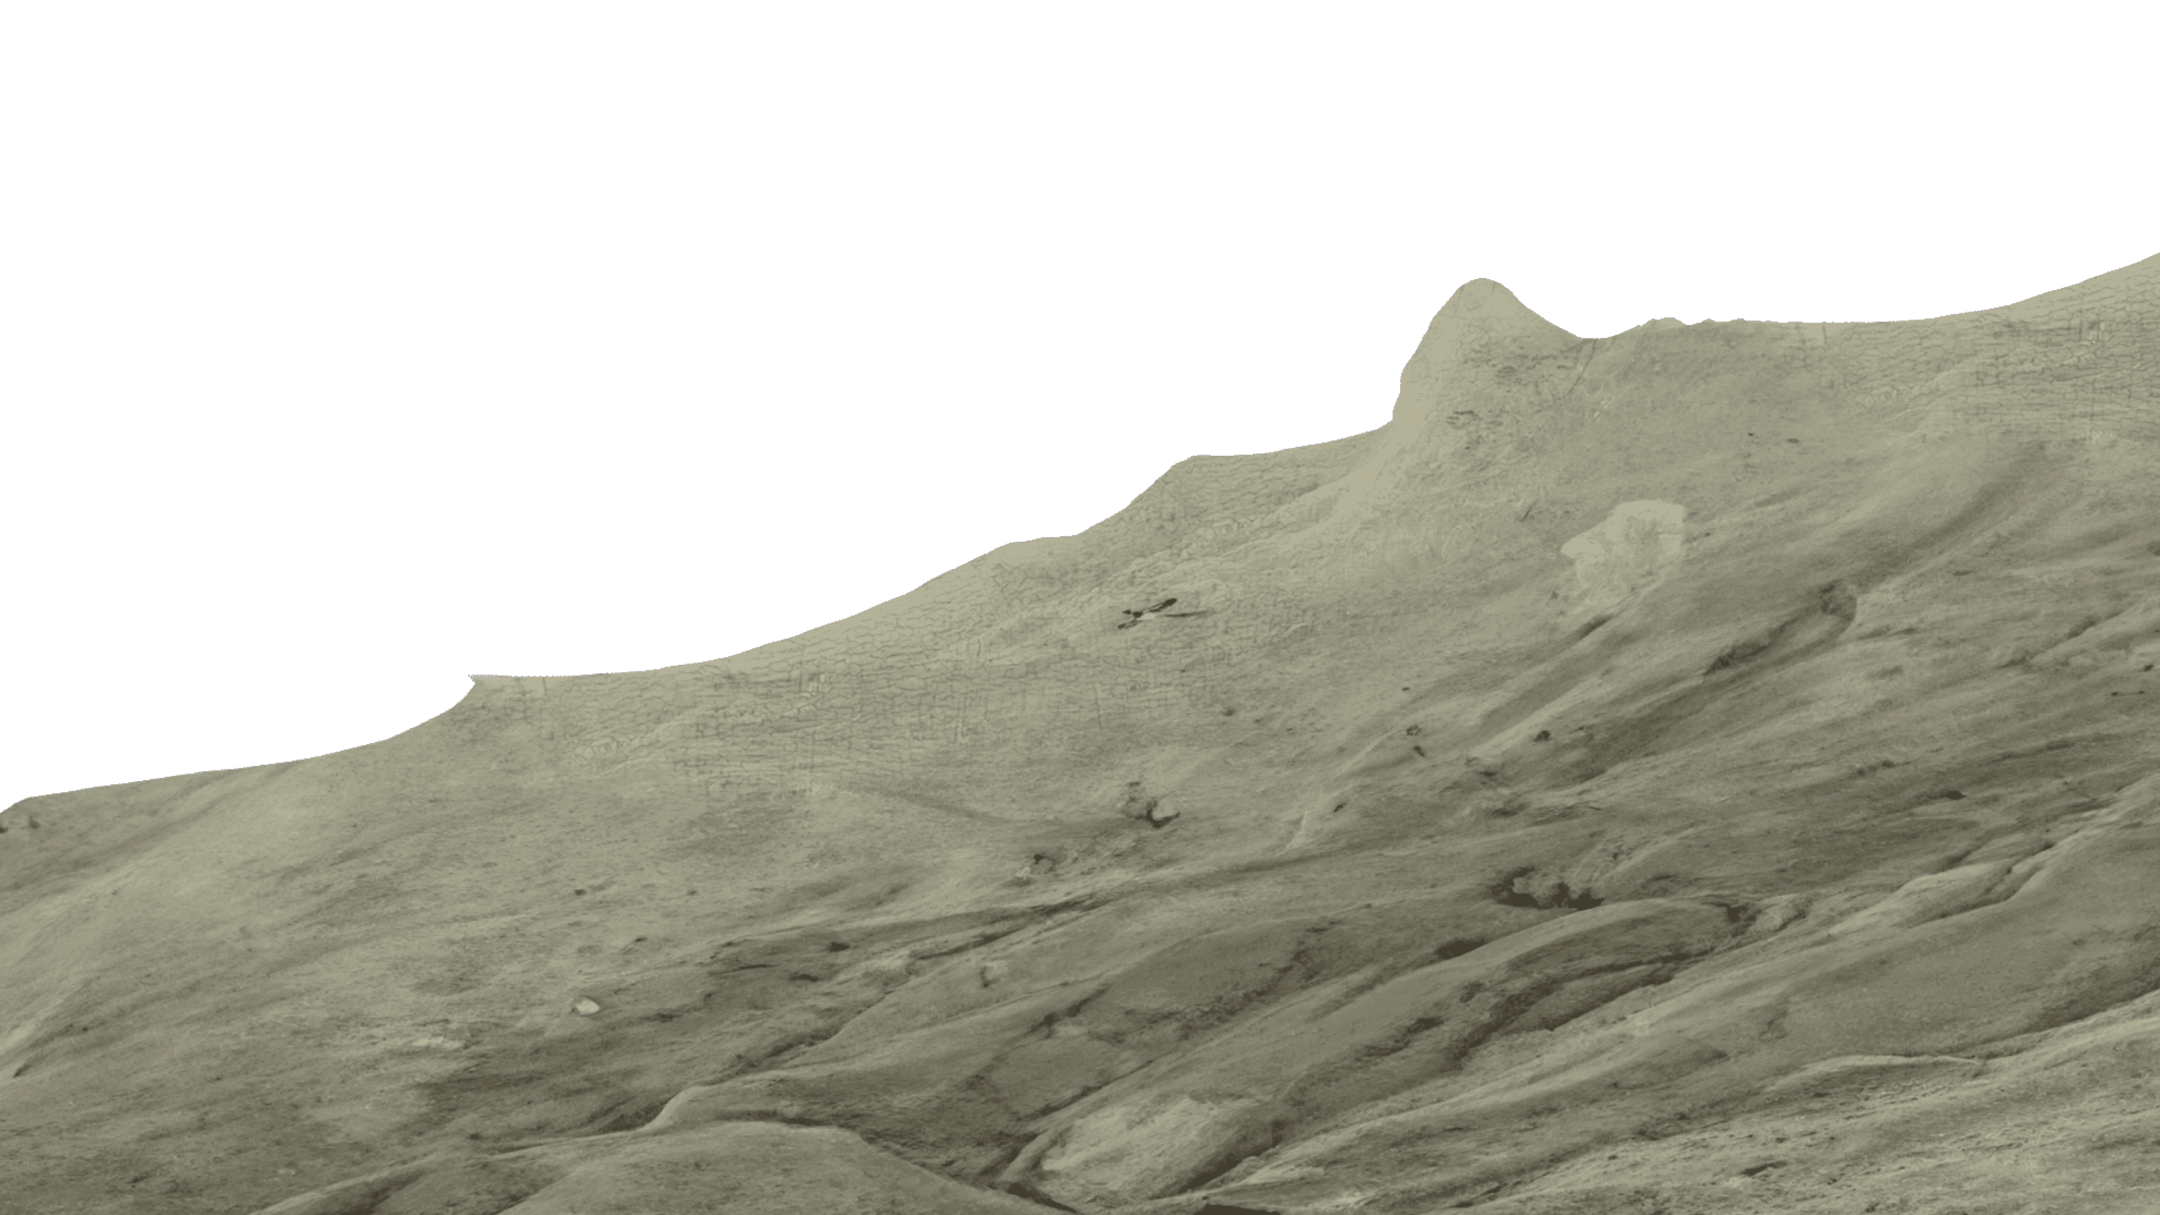
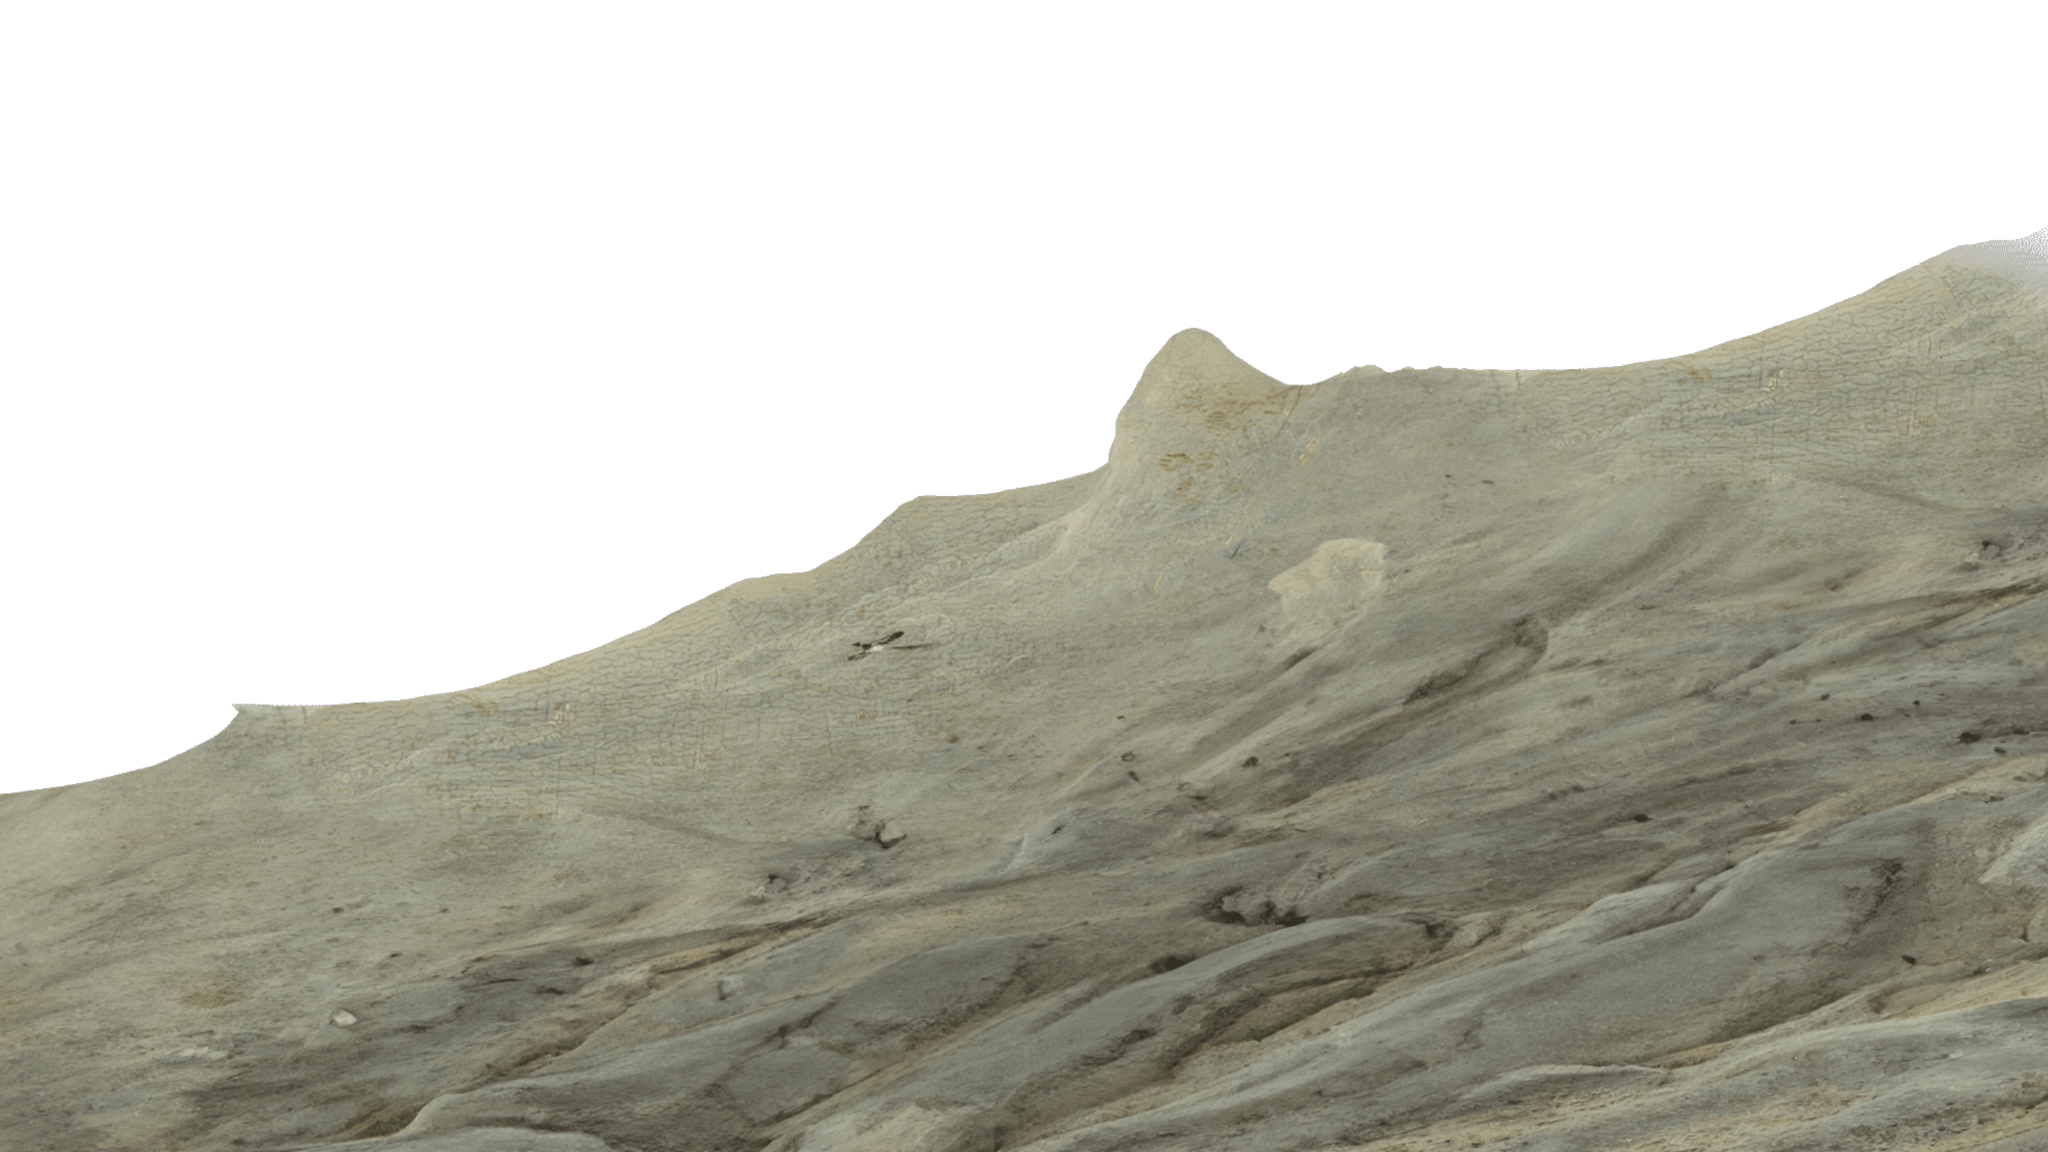
responsive fixes

diff --git a/index.html b/index.html
@@ -10,16 +10,17 @@
     <script src="https://cdnjs.cloudflare.com/ajax/libs/gsap/3.12.5/ScrollTrigger.min.js" integrity="sha512-onMTRKJBKz8M1TnqqDuGBlowlH0ohFzMXYRNebz+yOcc5TQr/zAKsthzhuv0hiyUKEiQEQXEynnXCvNTOk50dg==" crossorigin="anonymous" referrerpolicy="no-referrer"></script>
     <script src="https://cdn.tailwindcss.com"></script>
     <!-- <script src="https://cdn.jsdelivr.net/npm/simple-parallax-js@5.5.1/dist/simpleParallax.min.js"></script> -->
+    <script src="https://unpkg.com/lenis@1.1.2/dist/lenis.min.js"></script> 
 
   </head>
   <body>
 
     <section class="fc1 h-screen w-screen overflow-hidden relative flex items-center justify-center" id="scene1" >
-      <img id="img1" class="h-full w-full object-cover" src="assets/scene1_1.png" alt="" >
+      <img id="img1" class="h-full w-full object-cover" src="asset/scene1_1.png" alt="" >
       
-      <img id="img2" class="w-[110vw]  h-full object-cover scene1" src="assets/scene1_2.png" alt="" >
+      <img id="img2" class="w-[110vw]  h-full object-cover scene1" src="asset/scene1_2.png" alt="" >
       <div id="paper" class="text1 paper w-full text-6xl text-center font-bold overflow-hidden flex gap-10">
-        <img class="absolute" src="assets/paper.png" alt="">
+        <img class="absolute" src="asset/paper.png" alt="">
         <div class="flex-col justify-start items-center  inline-flex absolute -mt-30">
           <div class="text-center text-black text-3xl font-bold font-['Jura'] uppercase leading-10">MEN AND WOMEN WANTED</div>
           <div class="w-96 text-center text-black text-lg font-bold font-['Jura'] leading-relaxed">for hazardous journey, bitter cold, long months of complete darkness, constant danger, safe return doubtful, honor and <br/>recognition in case of success.</div>
@@ -34,18 +35,20 @@
        
           
       </div>
-      <img id="img3" class="w-[110vw]  h-full object-cover scene1" src="assets/scene1_3.png" alt=""  >
+      <img id="img3" class="w-[110vw]  h-full object-cover scene1" src="asset/scene1_3.png" alt=""  >
+
       
-      <img id="img4" class="w-[110vw]  h-full object-cover scene1" src="assets/scene1_4.png" alt="" >
+      <img id="img4" class="w-[110vw]  h-full object-cover scene1" src="asset/scene1_4.png" alt="" >
+      
+      <img id="img5" class="w-[110vw]  h-full object-cover scene1" src="asset/scene1_5.png" alt=""  >
       <div id="text1" class="text1 w-full text-7xl text-center font-bold overflow-hidden flex gap-20 mt-20 uppercase">
         <div class="overflow-hidden">You Already Have<br/>
         What it Takes.</div>
       </div>
-      <img id="img5" class="w-[110vw]  h-full object-cover scene1" src="assets/scene1_5.png" alt=""  >
       
-      <img id="img6" class="w-[110vw]  h-full object-cover scene1" src="assets/scene1_6.png" alt="" >
+      <img id="img6" class="w-[110vw]  h-full object-cover scene1" src="asset/scene1_6.png" alt="" >
       
-      <img id="img7" class="w-[110vw]  h-full object-cover scene1" src="assets/scene1_7.png" alt="" >
+      <img id="img7" class="w-[110vw]  h-full object-cover scene1" src="asset/scene1_7.png" alt="" >
       <div id="text2" class="text1 w-full text-6xl text-center font-bold overflow-hidden flex item-start gap-20 pt-40">
         <div class="overflow-hidden text-xl uppercase tracking-[20px] font-semibold">
           FullCircle

diff --git a/script.js b/script.js
@@ -15,6 +15,21 @@ function showInput(){
 // gsap
 gsap.registerPlugin(ScrollTrigger);
 
+
+const lenis = new Lenis()
+
+lenis.on('scroll', (e) => {
+  console.log(e)
+})
+
+lenis.on('scroll', ScrollTrigger.update)
+
+gsap.ticker.add((time)=>{
+  lenis.raf(time * 1000)
+})
+
+gsap.ticker.lagSmoothing(0)
+
 let tl = gsap.timeline({
   scrollTrigger: {
     trigger: "section",
@@ -122,69 +137,69 @@ tl.to("#img7", {
 //   webkitFilter: "blur(10px)",
   //   opacity: 0,
   ease: "sine.inOut",
-  duration: 1
+  duration: 3
 }).to("#text2", {
   scale: 3,
 //   webkitFilter: "blur(10px)",
   //   opacity: 0,
   ease: "sine.inOut",
-  duration: 2
+  duration: 4
 },0)
 .to("#text1", {
   scale: 3,
   // webkitFilter: "blur(10px)",
   // opacity: 0,
-  marginTop: "80%",
+  marginTop: "70%",
   ease: "sine.inOut",
-  duration: 8
+  duration: 10
 },0)
 .to("#img6", {
   scale: 3,
 //   webkitFilter: "blur(10px)",
 //   opacity: 0,
   ease: "sine.inOut",
-  duration: 3
+  duration: 5
 },0)
 .to("#img5", {
     scale: 3,
     // webkitFilter: "blur(10px)",
     // opacity: 0,
     ease: "sine.inOut",
-    duration: 8
+    duration: 10
   },0)
   .to("#img4", {
     scale: 3,
     // webkitFilter: "blur(10px)",
     // opacity: 0,
     ease: "sine.inOut",
-    duration: 12
+    duration: 14
   },0)
   .to("#img3", {
-    scale: 3,
+    scale: 2,
     marginTop: "20%",
     // webkitFilter: "blur(10px)",
     // opacity: 0,
     ease: "sine.inOut",
-    duration: 16
+    duration: 18
   },0)
   .to("#img2", {
-    scale: 3,
+    scale: 1.8,
     // webkitFilter: "blur(10px)",
     // opacity: 0,
     ease: "sine.inOut",
-    duration: 20
+    duration: 22
   },0)
   .to("#img1", {
-    scale: 2,
+    scale: 1.5,
     ease: "sine.inOut",
-    duration: 25
+    duration: 32
   },0)
   .from("#paper", {
     top:"150%",
     scale: "0.2",
     // zIndex: 10,
     ease: "sine.inOut",
-    duration: 10
+    duration: 12
   },0);
 
 //   gsap.to("#scene1 > img:nth-child(5)", {

diff --git a/style.css b/style.css
@@ -67,3 +67,24 @@ input:placeholder-shown {
 input::placeholder {
   color: rgb(131, 131, 131);
 }
+
+
+html.lenis, html.lenis body {
+    height: auto;
+  }
+  
+  .lenis.lenis-smooth {
+    scroll-behavior: auto !important;
+  }
+  
+  .lenis.lenis-smooth [data-lenis-prevent] {
+    overscroll-behavior: contain;
+  }
+  
+  .lenis.lenis-stopped {
+    overflow: hidden;
+  }
+  
+  .lenis.lenis-smooth iframe {
+    pointer-events: none;
+  }
